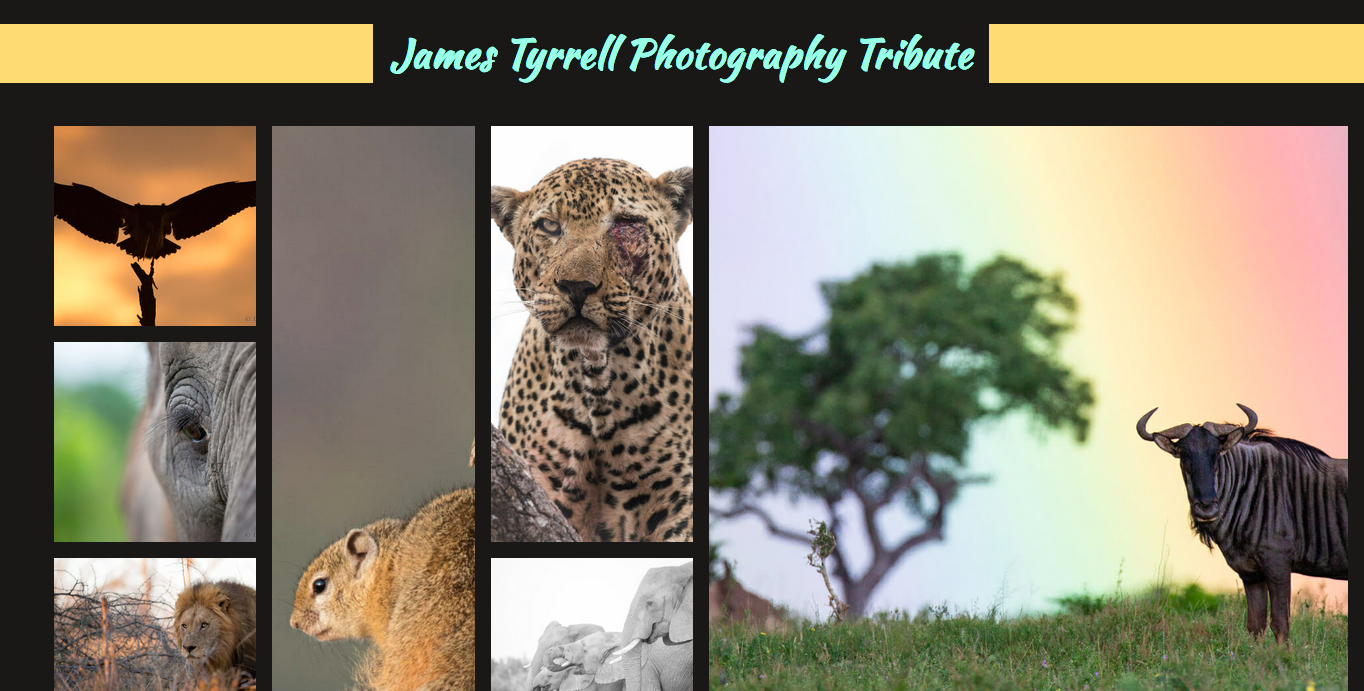
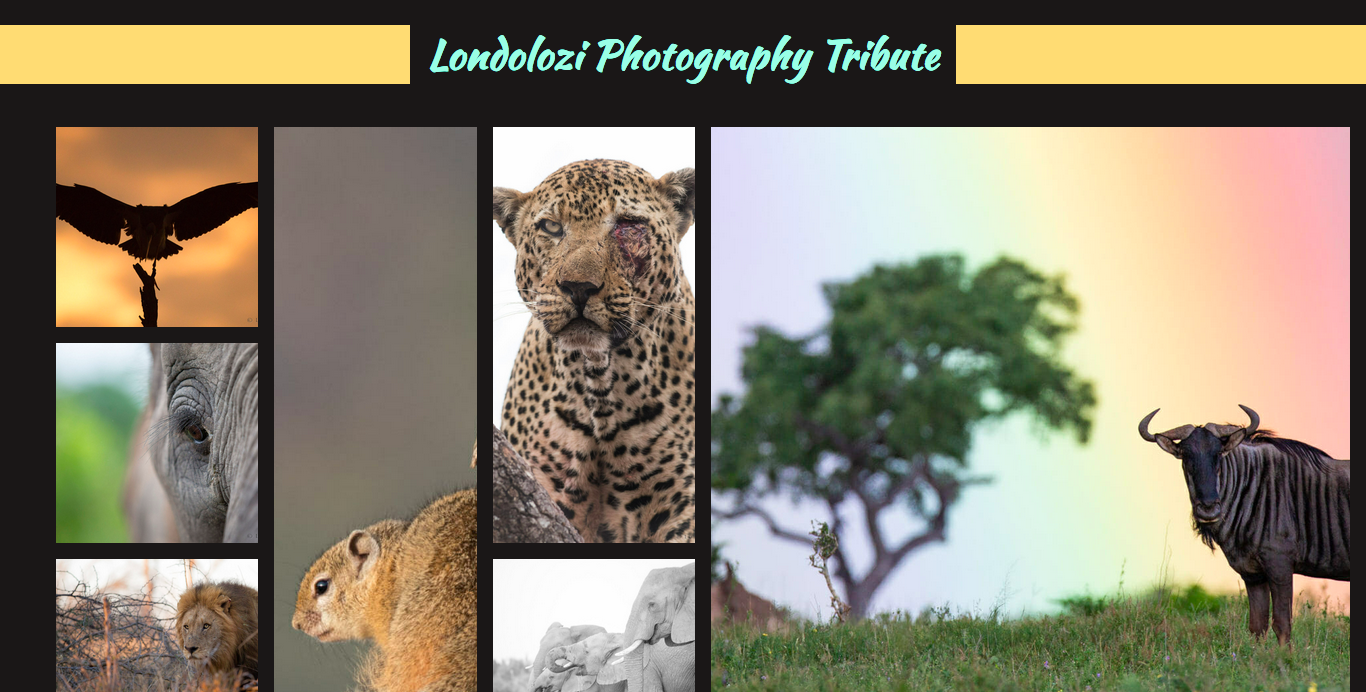
updated

diff --git a/index.html b/index.html
@@ -394,6 +394,11 @@
             border-radius: 50%;          
         }
 
+
+
+
+/* :::::::::::::::::::  Media Queries  :::::::::::::::::*/
+
         @media screen and (max-width: 950px) { 
 
          amp-sidebar ul{
@@ -469,6 +474,7 @@
            opacity: initial; 
            transition: none; 
            z-index: -1; 
+           width: 300px;
         }
 
         .project amp-img:hover {
@@ -488,15 +494,15 @@
 
          @media screen and (max-width: 444px) {
 
+          body{
+            font-size:1em;
+           }
+
           header{
             display: block;
           }
 
-           body{
-            font-size:1em;
-           }
-
-           .nav button{
+          .nav button{
             display: none;
            }
 
@@ -509,16 +515,18 @@
            }
 
            h3{
-            font-size: 1.2em;
+            font-size: 1.4em;
            }
 
             .banner{
-              height: 25rem;
-            }
+             height: 25rem;
+             text-align: initial;
+           }
 
             .about{
               height: 35rem;
-            }
+              padding: 2rem 5rem 2rem 3rem;
+           }
             .skill_set{
             display: none;
           }
@@ -533,6 +541,7 @@
 
         .contact{
           height: 4rem;
+          padding: 1rem 0rem 10rem 6rem;
         }
 
 
@@ -543,6 +552,7 @@
 
         .right{
           width: 100%;
+          text-align: initial;
         }
 
             .links a:link, a:visited {
@@ -554,12 +564,16 @@
 
             amp-sidebar{
             background:rgba(255,255,255);
-            width: 58%;
+            width: 68%;
         }
 
             amp-img{
             z-index: 1;
         }
+
+        }
+
+        @media screen and (max-width: 400px) {
 
         }
 
@@ -571,13 +585,13 @@
    <amp-sidebar id="sidebar1" layout="nodisplay" side="right">
       <ul>
         <li><a href="#about_resume" on="tap:about.scrollTo">About/<br>Résumé</a></li>
-        <li><a href="#fc" on="tap:fc.scrollTo">Fresh City (Ruby)</a></li>
-        <li><a href="#ap" on="tap:ap.scrollTo">Admin. Panel (Ruby)</a></li>
+        <li><a href="#fc" on="tap:fc.scrollTo"> Fresh City (Ruby)</a></li>
+        <li><a href="#ap" on="tap:ap.scrollTo"> Admin. Panel (Ruby)</a></li>
         <li><a href="#jztd" on="tap:jzto.scrollTo"> Todo App (React)</a></li>
-        <li><a href="#bake" on="tap:bake.scrollTo">Bakery (Ruby)</a></li>
-        <li><a href="#cb" on="tap:cb.scrollTo">Pokémon Gym (Web App)</a></li>
-        <li><a href="#lb" on="tap:cb.scrollTo">LeBron Stats (Web Page)</a></li>
-        <li><a href="#ag" on="tap:cb.scrollTo">Animal Perserve Photography (Gallery)</a></li>
+        <li><a href="#bake" on="tap:bake.scrollTo"> Bakery (Ruby)</a></li>
+        <li><a href="#cb" on="tap:cb.scrollTo"> Pokémon Gym (Web App)</a></li>
+        <li><a href="#lb" on="tap:cb.scrollTo"> LeBron (Web Page)</a></li>
+        <li><a href="#ag" on="tap:cb.scrollTo"> Animal Photography (Gallery)</a></li>
         <li><a href="#reach_me" on="tap:reach_me.scrollTo">Contact</a></li>
       </ul>
     </amp-sidebar>
@@ -603,14 +617,14 @@
 
       <div class="about" id="about_resume">
         <p>  
-          Welcome!  I make web applications, front & back, specializing in <i>html</i>, <i>css</i>, <i>javascript</i>, <i>ruby</i>, & <i>ruby on rails</i>. Currently getting into <i>React</i>, because that's what all the cool kids are into, plus it is actually very intriguing.  Below is a full run down of skills I had actually used to build with, further down, some of my projects, and just under this paragraphs is a link to my résumé as a pdf file, you can check out.      
+          Welcome!  I make web applications, front & back, specializing in <i>html</i>, <i>css</i>, <i>javascript</i>, <i>ruby</i>, & <i>ruby on rails</i>. Currently getting into <i>React</i>, because of their view on the MVC model, and also, it's what the cool kids are into. Below is a link to my résumé and some of my recent projects.      
         </p>
 
         <br>
           <a href="documents/developer_al_fullstack.pdf">résumé</a>
           <br>
         <p>
-          Outside of tech, I'm a Veteran who is unabashedly into Muay Thai, tea, and 80's/90's music.
+          Outside of tech, I'm a Veteran who is unabashedly into Muay Thai, tea, community service and 80's/90's music.  Thanks again for stopping by.
         </p>
        
 
@@ -688,8 +702,8 @@
         <div class="img_frame">
         <p class="img_text"> Stay Fresh</p>    
            <amp-img src="images/freshcity.jpg"
-              width="400"
-              height="250"
+              width="320"
+              height="200" 
               >
            </amp-img>
       
@@ -712,8 +726,8 @@
 
           <div class="img_frame"> 
              <amp-img src="images/jay_todo.jpg"
-                width="400"
-                height="250"
+                width="320"
+              height="200" 
                 >
              </amp-img>
           </div>             
@@ -739,8 +753,8 @@
   
         <div class="img_frame"> 
            <amp-img src="images/bakery.jpg"
-              width="400"
-              height="250"
+              width="320"
+              height="200" 
               >
          </amp-img>
         </div>           
@@ -767,8 +781,8 @@
         
          <div class="img_frame"> 
             <amp-img src="images/panel.jpg"
-              width="400"
-              height="250"           
+              width="320"
+              height="200"           
               ></amp-img>
          </div>
       </div>
@@ -791,8 +805,8 @@
         
         <div class="img_frame">  
           <amp-img src="images/cherrybomb.jpg"
-              width="400"
-              height="250"         
+              width="320"
+              height="200"         
               ></amp-img>
         </div>
       </div>
@@ -806,8 +820,8 @@
                  <i>  LeBron James </i>
             </h2>
              <li> Video Background </li>
-             <li> Responsive </li>
              <li> Flip Card </li>
+             <li> Responsive </li>
                <a href="https://alfonsoarriola.github.io/LeBron/" class="site">Website</a>
                <a href="https://github.com/AlfonsoArriola/LeBron" class="git">Github</a>
            </ul> 
@@ -815,8 +829,8 @@
 
         <div class="img_frame">  
           <amp-img src="images/le_bron.png"
-              width="400"
-              height="250"         
+              width="320"
+              height="200"          
               ></amp-img>
         </div>
       </div>
@@ -827,8 +841,9 @@
              <h2> 
               <u> CSS grid: Photogallery</u> 
                   <br>
-                 <i> James Tyrrell Photography </i>
+                 <i> Londolozi Photography </i>
             </h2>
+             <li> Animal & Photographer info shows on hover</li>
              <li> Responsive </li>
                <a href="https://alfonsoarriola.github.io/animal_perserve_gallery/" class="site">Website</a>
                <a href="https://github.com/AlfonsoArriola/animal_perserve_gallery/tree/master"class="git">Github</a>
@@ -837,8 +852,8 @@
         
         <div class="img_frame">  
           <amp-img src="images/animal_gallery.jpg"
-              width="400"
-              height="250"         
+              width="320"
+              height="200"         
               ></amp-img>
         </div>
       </div>
@@ -866,6 +881,7 @@
  
 <!-- +++++++++++++  Container  +++++++++++++++++++++++ -->
         </div>
+
 
   </body>
 </html>
